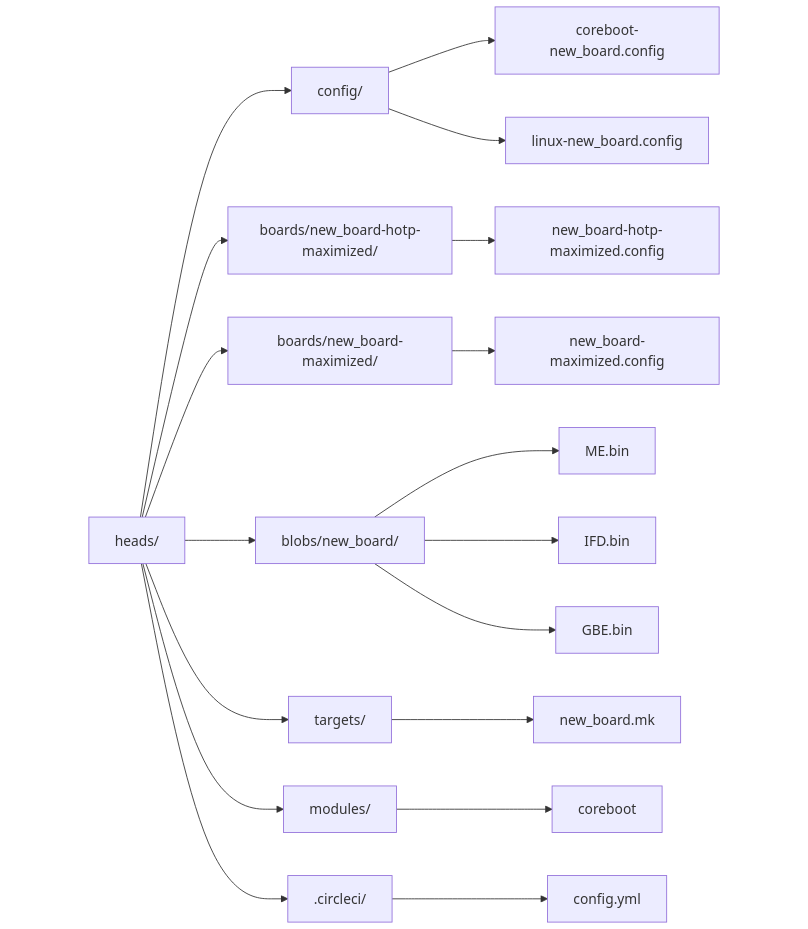
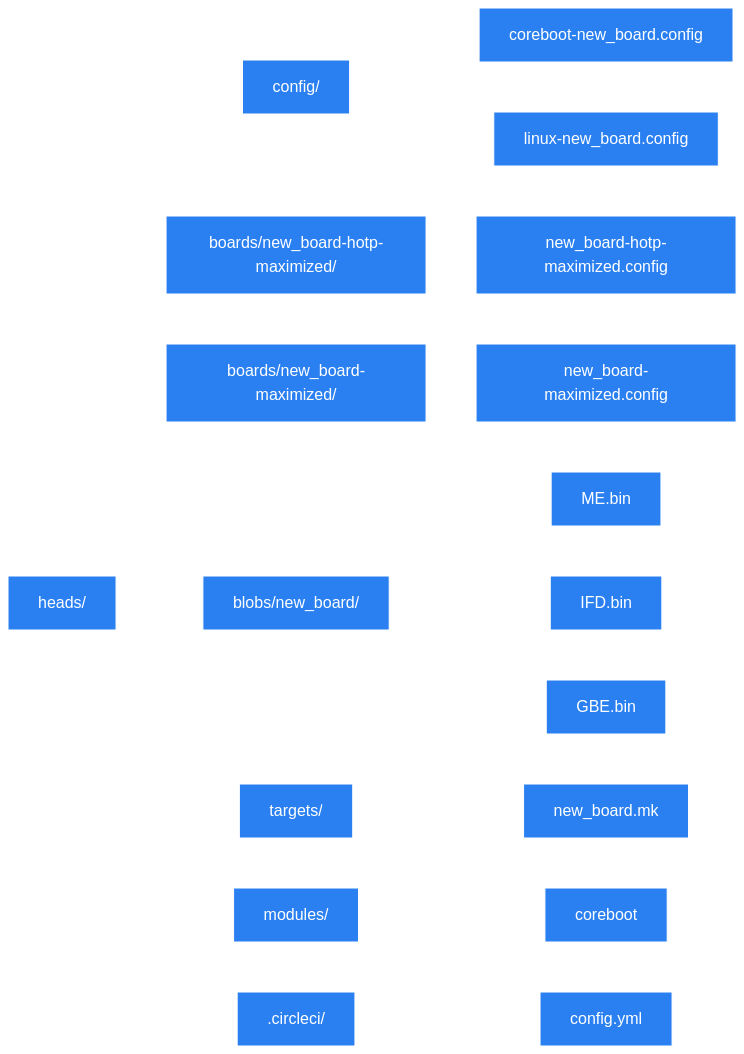
implement tlaurion suggestions, adjust color of figures, remove duplicated information

diff --git a/Development/Porting.md b/Development/Porting.md
@@ -20,79 +20,49 @@ parent: Development
 Prerequisites for porting Heads
 ===
 Prerequisites: 
-1. coreboot port:  since Heads is a coreboot payload, the board must have fully completed and actively maintained coreboot support. Any known issues should be acceptable to end users. Exceptions include the Librem and Dasharo coreboot forks, where coreboot is used from their respective forks.
+1. coreboot port:  since Heads is a coreboot payload, the board must have fully completed and actively maintained coreboot support. Any known issues should be acceptable to end users. Exceptions include the Purism and Dasharo coreboot forks, where coreboot is used from their respective forks.
 2. TPM module: For full Heads functionality, the board must have a TPM module. If it uses fTPM and you plan to neuter the Intel Management Engine (ME), the fTPM must remain functional under coreboot even after neutering ME. Otherwise, a dTPM is required for this board.
 3. Technical skills: the person porting the board must have basic knowledge of coreboot, Linux, Bash, Git, and Python to complete the port. While the community is committed to helping, an alternative option is financial contribution for [consultancy services](https://osresearch.net/Consultation-Services/)
 4. External programmer: an external programmer is required to flash Heads and, if necessary, to recover from a brick.
 5. Users and Board-testers: There should be multiple users and testers interested in using the board, as this makes maintenance and testing easier and benefits the entire ecosystem. You may, of course, port it for yourself first and allow others to join later. However, you must commit to testing—especially after coreboot version bumps or Linux kernel updates. If testing is not done in a timely manner, the board will be moved to an "unmaintained, untested" status. This would be unfortunate, potentially a waste of time, and disappointing for everyone involved.
-6. GPU: dGPUs are problematic in Heads for various reasons. While successful ports on older machines with dGPUs exist (TODO: Add link), security may be affected, and there is currently no clear solution for that. (TODO: Link to Matrix coreboot discussion)
+6. GPU: dGPUs are problematic in Heads for various reasons. While successful ports on older machines with dGPUs existed (e.g. [t530 and w530](https://github.com/linuxboot/heads/commit/a854144e2dbf14700491e3f1cb6f88e12d22197b)), security may be affected, and there is currently no clear solution for that. In case you are curious, please read a longer discussion on the Matrix coreboot channel starting with this [post](https://matrix.to/#/!EhaGFZyYcbyhdSgStq:matrix.org/$4OuJ9tPr8a_U6pwWgmjQxL0hnmpBzTATAHVl9gMvnfQ?via=matrix.org&via=tchncs.de&via=dodoid.com). 
 
-The scheme depicts a port cycle. 
+The scheme depicts a port cycle.
 ![Port cycle]({{ site.baseurl }}/images/Porting_cycle.png)
-TODO (remove source code after feedback)
-```mermaid
-  graph TD;
-      build_rom-->flash
-      flash-->test;
-      test-->debugg;
-      debugg-->test;
-      debugg-->remove_debugging_mode;
-      remove_debugging_mode-->write_flashing/dissassambly_guide_on_heads-wiki;
-      write_flashing/dissassambly_guide_on_heads-wiki-->maintance
-```
+
 Files needed to be created/modified are depicted on the scheme.
 ![Files overview]({{ site.baseurl }}/images/Files_scheme.png)
 
-TODO (remove source code after feedback)
-```mermaid
-  graph LR;
-      heads/-->config/;
-      config/-->coreboot-new_board.config;
-      config/-->linux-new_board.config;
-      heads/-->boards/new_board-hotp-maximized/;
-      heads/-->boards/new_board-maximized/;
-      boards/new_board-hotp-maximized/-->new_board-hotp-maximized.config;
-      boards/new_board-maximized/-->new_board-maximized.config;
-      heads/-->blobs/new_board/;
-      blobs/new_board/-->ME.bin;
-      blobs/new_board/-->IFD.bin;
-      blobs/new_board/-->GBE.bin;
-      heads/-->targets/;
-      targets/-->new_board.mk
-      heads/-->modules/;
-      modules/-->coreboot
-      heads/-->.circleci/;
-      .circleci/-->config.yml
-```
-
 Prerequisites for building the ROM
 ===
-The goal is to build a ROM before the code review. `new_board` refers to the name of your board, e.g., `t480`
+The goal is to build a ROM before the code review. `new_board` refers to the name of your board (e.g., `t480`). It is recommended to clone the Heads GitHub repository and create a new branch: 
+```shell
+git clone https://github.com/linuxboot/heads.git
+git checkout -b Poc_new_board
+```
 
 coreboot.config:
 ---
-you need a coreboot configuration. Ideally, this config should have already been tested and confirmed to work on the board. Alternatively, you can create one using coreboot's `make menuconfig`.
-To ensure everything functions as expected, you may first build the ROM with SeaBIOS and test it. Please follow the upstream documentation, as this will save you time.
-Next, the configuration needs to be adapted for Heads, specifying LinuxBoot as the payload and defining the path for required blobs. You can inspect existing configurations for boards in the master branch and select one with a similar architecture (if available). The configuration file should be placed at: `heads/config/coreboot-new_board.config`
+you need a coreboot configuration. Ideally, this config should be adapted from the closest possible platform (copy `heads/config/coreboot-CLOSEST_PLATFORM` and rename it). You can inspect existing configurations for boards in the master branch and select one with a similar architecture, if available. Next, you can create a coreboot config using coreboot's `make menuconfig` for `new_board` and adapt it accordingly. 
+Note, the configuration needs to be adapted for Heads, defining the path for required blobs (see below).  The configuration file path should be: `heads/config/coreboot-new_board.config`.
 * Note:
-TPM measured boot (```CONFIG_TPM_MEASURED_BOOT=y```)and verified boot (```CONFIG_VBOOT_LIB=y```) should be enabled. If the board has TPM 2.0 those should be set to `y`. In this case, all TPM 1.2-related options should be commented out using`#`. If the Board has TPM 1.2  the reverse applies—TPM 2.0 options should be commented out. Here is a snipplet for TPM 2.0 configuration. `CONFIG_TPM=y` should be enabled in both cases.
+TPM measured boot (```CONFIG_TPM_MEASURED_BOOT=y```) and verified boot (```CONFIG_VBOOT_LIB=y```) should be enabled. If the board has the TPM 2.0 those should be set to `y`. In this case, all TPM 1.2-related options should be commented out using `#`. If the Board has the TPM 1.2 the reverse applies—TPM 2.0 options should be commented out. Here is a snippet for TPM 2.0 configuration. `CONFIG_TPM=y` should be enabled in both cases.
 ```
 CONFIG_TPM2=y
 CONFIG_TPM=y
 CONFIG_MAINBOARD_HAS_TPM2=y
 CONFIG_TPM_LOG_TPM2=y
 ```
-Other parameters depend on the board. It is up to you to determine the correct settings, as not all community members will have access to your board. The file should be named `coreboot-new_board.config` and placed under `config/` folder
+Other parameters depend on the board. It is up to you to determine the correct settings, as not all community members will have access to your board.
 
 linux.config:
 ---
-this should be adopted from a similar board. The file should be named `linux-new_board.config` and placed under `config/` folder.
+this should be adapted from a similar board. The file path should be `heads/config/linux-new_board.config`.
 
 board.config: 
 ---
-there should be a file `new_board-hotp-maximized.config`, which inherits all the parameters from `new_board-maximized.config` and adds  HOTP verification. This is Heads specific configuration and should be adopted from a similar platform. new_board config should point to the land the coreboot and linux.
-You should point in new_board-hotp-maximized and new_board-maximized to the coreboot version e.g. `export CONFIG_COREBOOT_VERSION=24.12`- that will be modified under modules/coreboot (see corresponding section below)
-Additionally, the configurations should reference the appropriate coreboot and linux configs created above:
+there should be a file `new_board-hotp-maximized.config`, which inherits all the parameters from `new_board-maximized.config` and adds  HOTP verification. This is Heads specific configuration and should be adapted from a similar platform. 
+You should point in `new_board-hotp-maximized` and `new_board-maximized` to the coreboot version e.g. `export CONFIG_COREBOOT_VERSION=X.Y.Z.`- that will be modified under modules/coreboot (see corresponding section below). Additionally, the configurations should reference the appropriate coreboot and linux configs created above:
 ```
 CONFIG_COREBOOT_CONFIG=config/coreboot-new_board.config
 CONFIG_LINUX_CONFIG=config/linux-new_board.config
@@ -112,29 +82,32 @@ export CONFIG_PRIMARY_KEY_TYPE=ecc
 ```#TPM1 requirements
 #export CONFIG_TPM=y
 ```
-In the configuration, the path to the folder containing binary blobs must be specified. These are required by coreboot for building the ROM (please see binary blobs session)
+In the configuration, the path to the folder containing binary blobs must be specified. These are required by coreboot for building the ROM (please see binary blobs session).
 
 modules/coreboot:
 ---
-coreboot fork that will be used should be added under modules/coreboot. 
+coreboot fork that will be used should be added under `heads/modules/coreboot`. 
 
 binary blobs:
 ---
-Check the coreboot configuration for the ported board. This will indicate which binary blobs are required and where they are expected to be located. Heads have scripts under blobs/* which does the magic, called by board configs. Heads has scripts under blobs/* that manage binary blobs automatically. These scripts are invoked by board configurations and are essentially Makefiles that include other Makefiles, which in turn call scripts to download, modify, and place blobs where needed. This process follows coreboot’s philosophy. Those scripts dealing with blobs need to be created/modified.
-Generally,  three binary blobs are required: Management Engine (ME), Intel Flash Descriptor Region (IFD), and Gigabit Ethernet (GBE) The IFD and GBE can be extracted from a donor board using coreboot’s ifdtool. For more details, refer to the [uptsream documentation](https://doc.coreboot.org/util/ifdtool/layout.html)
-Please note the GBE MAC address should be forged to: `00:DE:AD:C0:FF:EE MAC`. It can be done with [nvmutil](https://libreboot.org/docs/install/nvmutil.html). Due to licensing restrictions, the ME firmware cannot be uploaded to GitHub. However, scripts can be used to build it locally and within CircleCI (a gray area legally, but still possible).
+check the coreboot configuration for a already ported board. This will indicate which binary blobs are required and where they are expected to be located. Heads have scripts under blobs/* which does the magic, called by board configs managing binary blobs automatically. These scripts are invoked by board configurations and are essentially Makefiles that include other Makefiles, which in turn call scripts to download, modify, and place blobs where needed. This process follows coreboot’s philosophy. Those scripts dealing with blobs need to be created/modified. For additional details please see [Makefiles]({{ site.baseurl }}/Development/make-details.md).
+Generally,  three binary blobs are required: Management Engine (ME), Intel Flash Descriptor Region (IFD), and Gigabit Ethernet (GBE) The IFD and GBE can be extracted from a donor board using coreboot’s ifdtool. For more details, refer to the [upstream documentation](https://doc.coreboot.org/util/ifdtool/layout.html). 
+
+Please note, if the ME is neutered, the IFD, coreboot CBFS region, and ME neutering space should be adjusted accordingly. Rationale: the ME region defined under IFD must fit. With the IFD ME region reduced, the BIOS region can grow with the freed ME space. With the BIOS region augmented, the CBFS region of the coreboot configuration must be increased to fit the ["maximized" space](https://osresearch.net/Prerequisites#legacy-vs-maximized-boards).
+
+Please note the GBE MAC address should be forged to: `00:DE:AD:C0:FF:EE MAC`. It can be done with [nvmutil](https://libreboot.org/docs/install/nvmutil.html). Due to licensing restrictions, the ME firmware cannot be uploaded to the GitHub. However, scripts can be used to build it locally and within CircleCI (a gray area legally, but still possible).
 * Note: When calling scripts in Nix-based environments, Python must be invoked explicitly, as Nix does not allow executing Python scripts directly from files. One can use last clean example for t480:`python ./finalimage.py` will work and just `./finalimage.py` will not work. 
-Blobs folder should have a script.sh which handles downloading, deactivating ME etc. It should also contain README.md file briefly explaining the process. Hashes of the blobs should stored either in `README.md` or in `hashes.txt file`.
+Blobs folder should have a script.sh which handles downloading, deactivating ME etc. It should also contain README.md file briefly explaining the process. Hashes of the blobs should be stored either in `README.md` or in `hashes.txt file`.
 
 new_board.mk:
 ---
-create a new `targets/new_board.mk` file which deals with calling blobs/script.sh* download and extraction of blobs placing the blobs in correct location.
+create a new `heads/targets/new_board.mk` file which deals with calling blobs/script.sh* download and extraction of blobs placing the blobs in correct location.
 
 CircleCI: 
 ---
-modify `.circleci/config.yml` to add support for `new_board`. Initially, configure it to depend directly on musl-cross-make. At this stage, do not reuse caches—this simplifies debugging and ensures a clean build process. 
+modify `heads/.circleci/config.yml` to add support for the `new_board`. Initially, configure it to depend directly on musl-cross-make. At this stage, do not reuse caches—this simplifies debugging and ensures a clean build process. 
 ```
-# new_board is based on xx.xx coreboot release, not sharing any buildstack from now, depend on muscl-cross cache
+# new_board is based on `X.Y.Z`. coreboot release, not sharing any buildstack from now, depend on muscl-cross cache
       - build:
           name: new_board-hotp-maximized
           target: new_board-hotp-maximized
@@ -142,10 +115,10 @@ modify `.circleci/config.yml` to add support for `new_board`. Initially, configu
           requires:
             - x86-musl-cross-make
 ```
-Under under CircleCI builds are reproducible, meaning you will be able to use the same (bit-to-bit) ROM on different machines to make sure you talk about the same thing, with same flashing technique/regions therefore SPI content. It optimizes the collaboration between peers-board owners. Moreover, CI builds are significantly faster than local builds, reducing overall development time.
+Under under CircleCI builds are reproducible, meaning you will be able to use the same (bit-to-bit) ROM on different machines to make sure you talk about the same thing, with same flashing technique/regions ,therefore, SPI content. It optimizes the collaboration between peers-board owners. Moreover, CI builds are significantly faster than local builds, reducing overall development time. The local builds (see below), if performed correctly, are going to be the same (bit-to-bit) as CI builds and, therefore, will have the same hash values.
 
 * Optional: local builds.
-If you really need to build locally during the development stage, pay attention to the helper functions at the end of the Makefiles. It is strongly recommended that local builders review the end of the Makefiles (including modules/* files), as these helper functions were designed to facilitate coreboot and Linux version bumps.
+If you really need to build locally during the development stage, pay attention to the helper functions at the end of the Makefiles. It is strongly recommended that local builders review the end of the Makefiles (including modules/*files), as these helper functions were designed to facilitate coreboot and Linux version bumps.
 For a completely clean build (the most radical approach), remove all build artifacts using:
 ```bash
 ./docker_repro.sh BOARD=new_board real.clean
@@ -163,24 +136,23 @@ Note, patches that attempt to create files that are not expected to exist but ex
 Testing
 ===
 
-For thorough testing—especially for a new board—using the following template may be beneficial.
-Tasks to check, Copy and paste this template into the GitHub message window when reporting test results. Mark completed tasks with an x inside the brackets [ ]. Replace yyy with the relevant information
+For thorough testing—especially for a new board—using the following template (tasks to check) may be beneficial. Copy and paste this template into the GitHub message window when reporting test results. Mark completed tasks with an `x` inside the brackets [ ]. Replace `X.Y.Z` with the relevant information. It is recommended also to upload relevant screenshots For additional safety, you may wish to remove the metadata from these files.
 ```
-- [ ] Successful external flash link to circleci: https://yyy from commit `yyy` using external programmer model `yyy` on `yyy` Voltage mode
+- [ ] Successful external flash link to circleci: https://X.Y.Z. from commit `X.Y.Z.` using external programmer model `X.Y.Z.` on `X.Y.Z.` Voltage mode
 - [ ] Boots successfully after the flashing: 
-- [ ] Setting clock prompt on first reboot: ok if triggered correctly after initial flashing and cmos battery disconnected
-- [ ] Clean boot detected (no keyring, nothing installed on disk): usb boot proposed and followed: ok
-- [ ] Boots on usb: ok
-- [ ] OS `yyy` install and reboot: ok
-- [ ] Heads functionality- no pubkey detected, but OS detected -> OEM-Factory-reset proposed. Done with `yyy` hardwarekey e.g. nk3: ok
-- [ ] On reboot after re-ownership: generate new HOTP/TOTP: ok
-- [ ] On reboot: default boot proposes to choose boot default + TPM DUK: ok
-- [ ] TPM DUK boots OS version: ok
-- [ ] TPM DUK boots QuebesOS 4.2.4: ok
-- [ ] wifi works based on OS `yyy`: ok
-- [ ] PR0: ok. 
+- [ ] Setting clock prompt on first reboot: ok if triggered correctly after initial flashing and CMOS battery disconnected
+- [ ] Clean boot detected (no keyring, nothing installed on disk): usb boot proposed and followed
+- [ ] Boots on usb
+- [ ] OS `X.Y.Z.` install and reboot
+- [ ] Heads functionality- no pubkey detected, but OS detected -> OEM-Factory-reset proposed. Done with `X.Y.Z.` hardwarekey e.g. nk3
+- [ ] On reboot after re-ownership: generate new HOTP/TOTP
+- [ ] On reboot: default boot proposes to choose boot default + TPM DUK
+- [ ] TPM DUK boots OS version `X.Y.Z.`
+- [ ] TPM DUK boots QubesOS `X.Y.Z.`
+- [ ] wifi works based on OS `X.Y.Z.`
+- [ ] PR0
 * flashprog -p internal (not locked)
-* lock_chip (locks_
+* lock_chip (locks the platform with PR0, if PR0 patch applied in fork or under `patches/coreboot-X.Y.Z.` and coreboot config contain proper preparation of the platform)
 * flashprog -p internal (reports locked)
 ```
 
@@ -190,29 +162,30 @@ Future debugging from Heads: enter recovery console, with a formatted USB thumb 
 ```shell
 mount-usb --mode rw
 cp /tmp/debug.log /media
-cbmem -L > /media/coreboot_measured_boot.log
+cbmem -L > /media/coreboot_measured_boot.txt
+cbmem -1 > /media/coreboot_cbmem_console.txt
+cbmem -t > /media/coreboot_cbmem_stages_timestamps.txt
 umount /media
 ```
 And then provide log files in a subsequent comment. That would be really helpful if something is still wrong. Of course, this should be modified based on the problem faced.
 
-Pull Request
+Pull Request (PR)
 ===
+Create an initial PR, with commits relative roughly to the steps above. 1 commit should correspond to 1 major bullet point.
 
-Create an initial PR, with commits relative roughly to the steps above. Please see the guide for contributing. 1 commit does 1 major bullet point.
-
-Then lets collaborate in the PR. Create a heads fork in your own repository, follow/comment linuxboot/heads-wiki#119 TODO create the wiki-page as you go, make sure you sign commits and don't stress too much if this seems a lot. Get a PR started and we will collaborate there. 
+Then lets collaborate in the PR. Create a heads fork in your own repository, follow the [contribution guide](https://github.com/linuxboot/heads/blob/master/CONTRIBUTING.md) as you go, make sure you sign commits and don't stress too much if this seems a lot. Get a PR started and we will collaborate there. 
 
 Remove debugging mode:
 ===
 One of last PRs should remove the debugging mode and add quite mode. 
 
-Write a flashing/dissasembling guide
+Write a flashing/disassembling guide
 ===
-Take pictures as you dissasemble your board and flash the Heads ROM. You can use them later to write a guide. This will help less technical community members using the board. Your effort will imporove the ecosystem. 
-If you cannot manage to finish writing the guide but talented enouph to finish the port just create an issue on the GitHub and drop pictures. We will try to find time to help.
+Take pictures as you disassemble your board and flash the Heads ROM. You can use them later to write a guide. This will help less technical community members using the board. Your effort will improve the ecosystem. 
+If you cannot manage to finish writing the guide but talented enough to finish the port just create an issue on the GitHub and drop pictures. We will try to find time to help.
 The guide is essential part of the port.
 
-Contribute to maintance
+Contribute to maintenance
 ===
 Refer to [Contributing on GitHub page](https://github.com/linuxboot/heads/blob/master/CONTRIBUTING.md)
 
